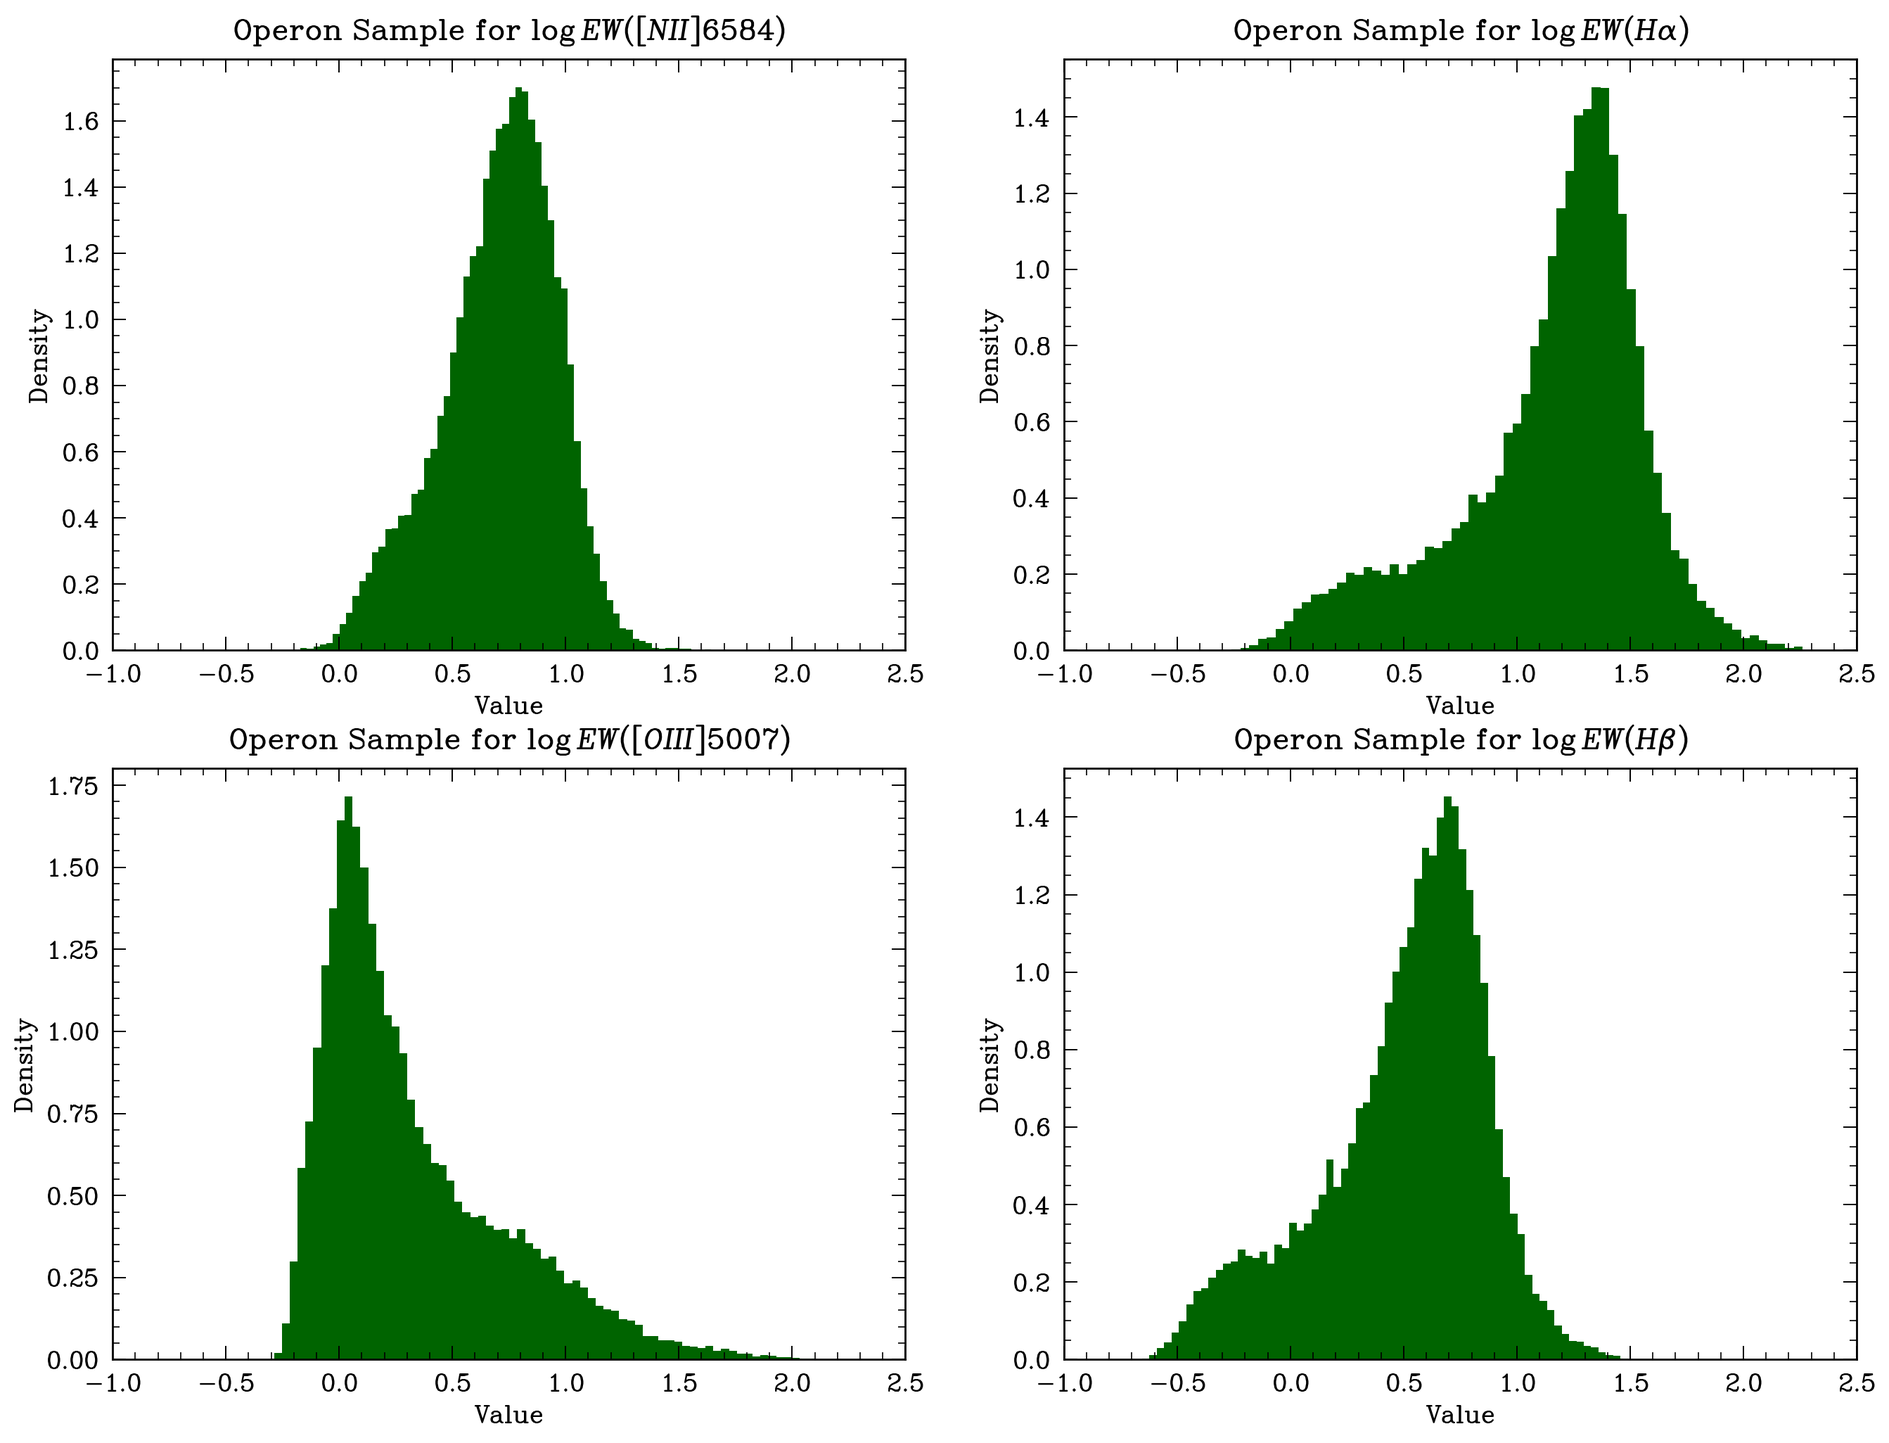
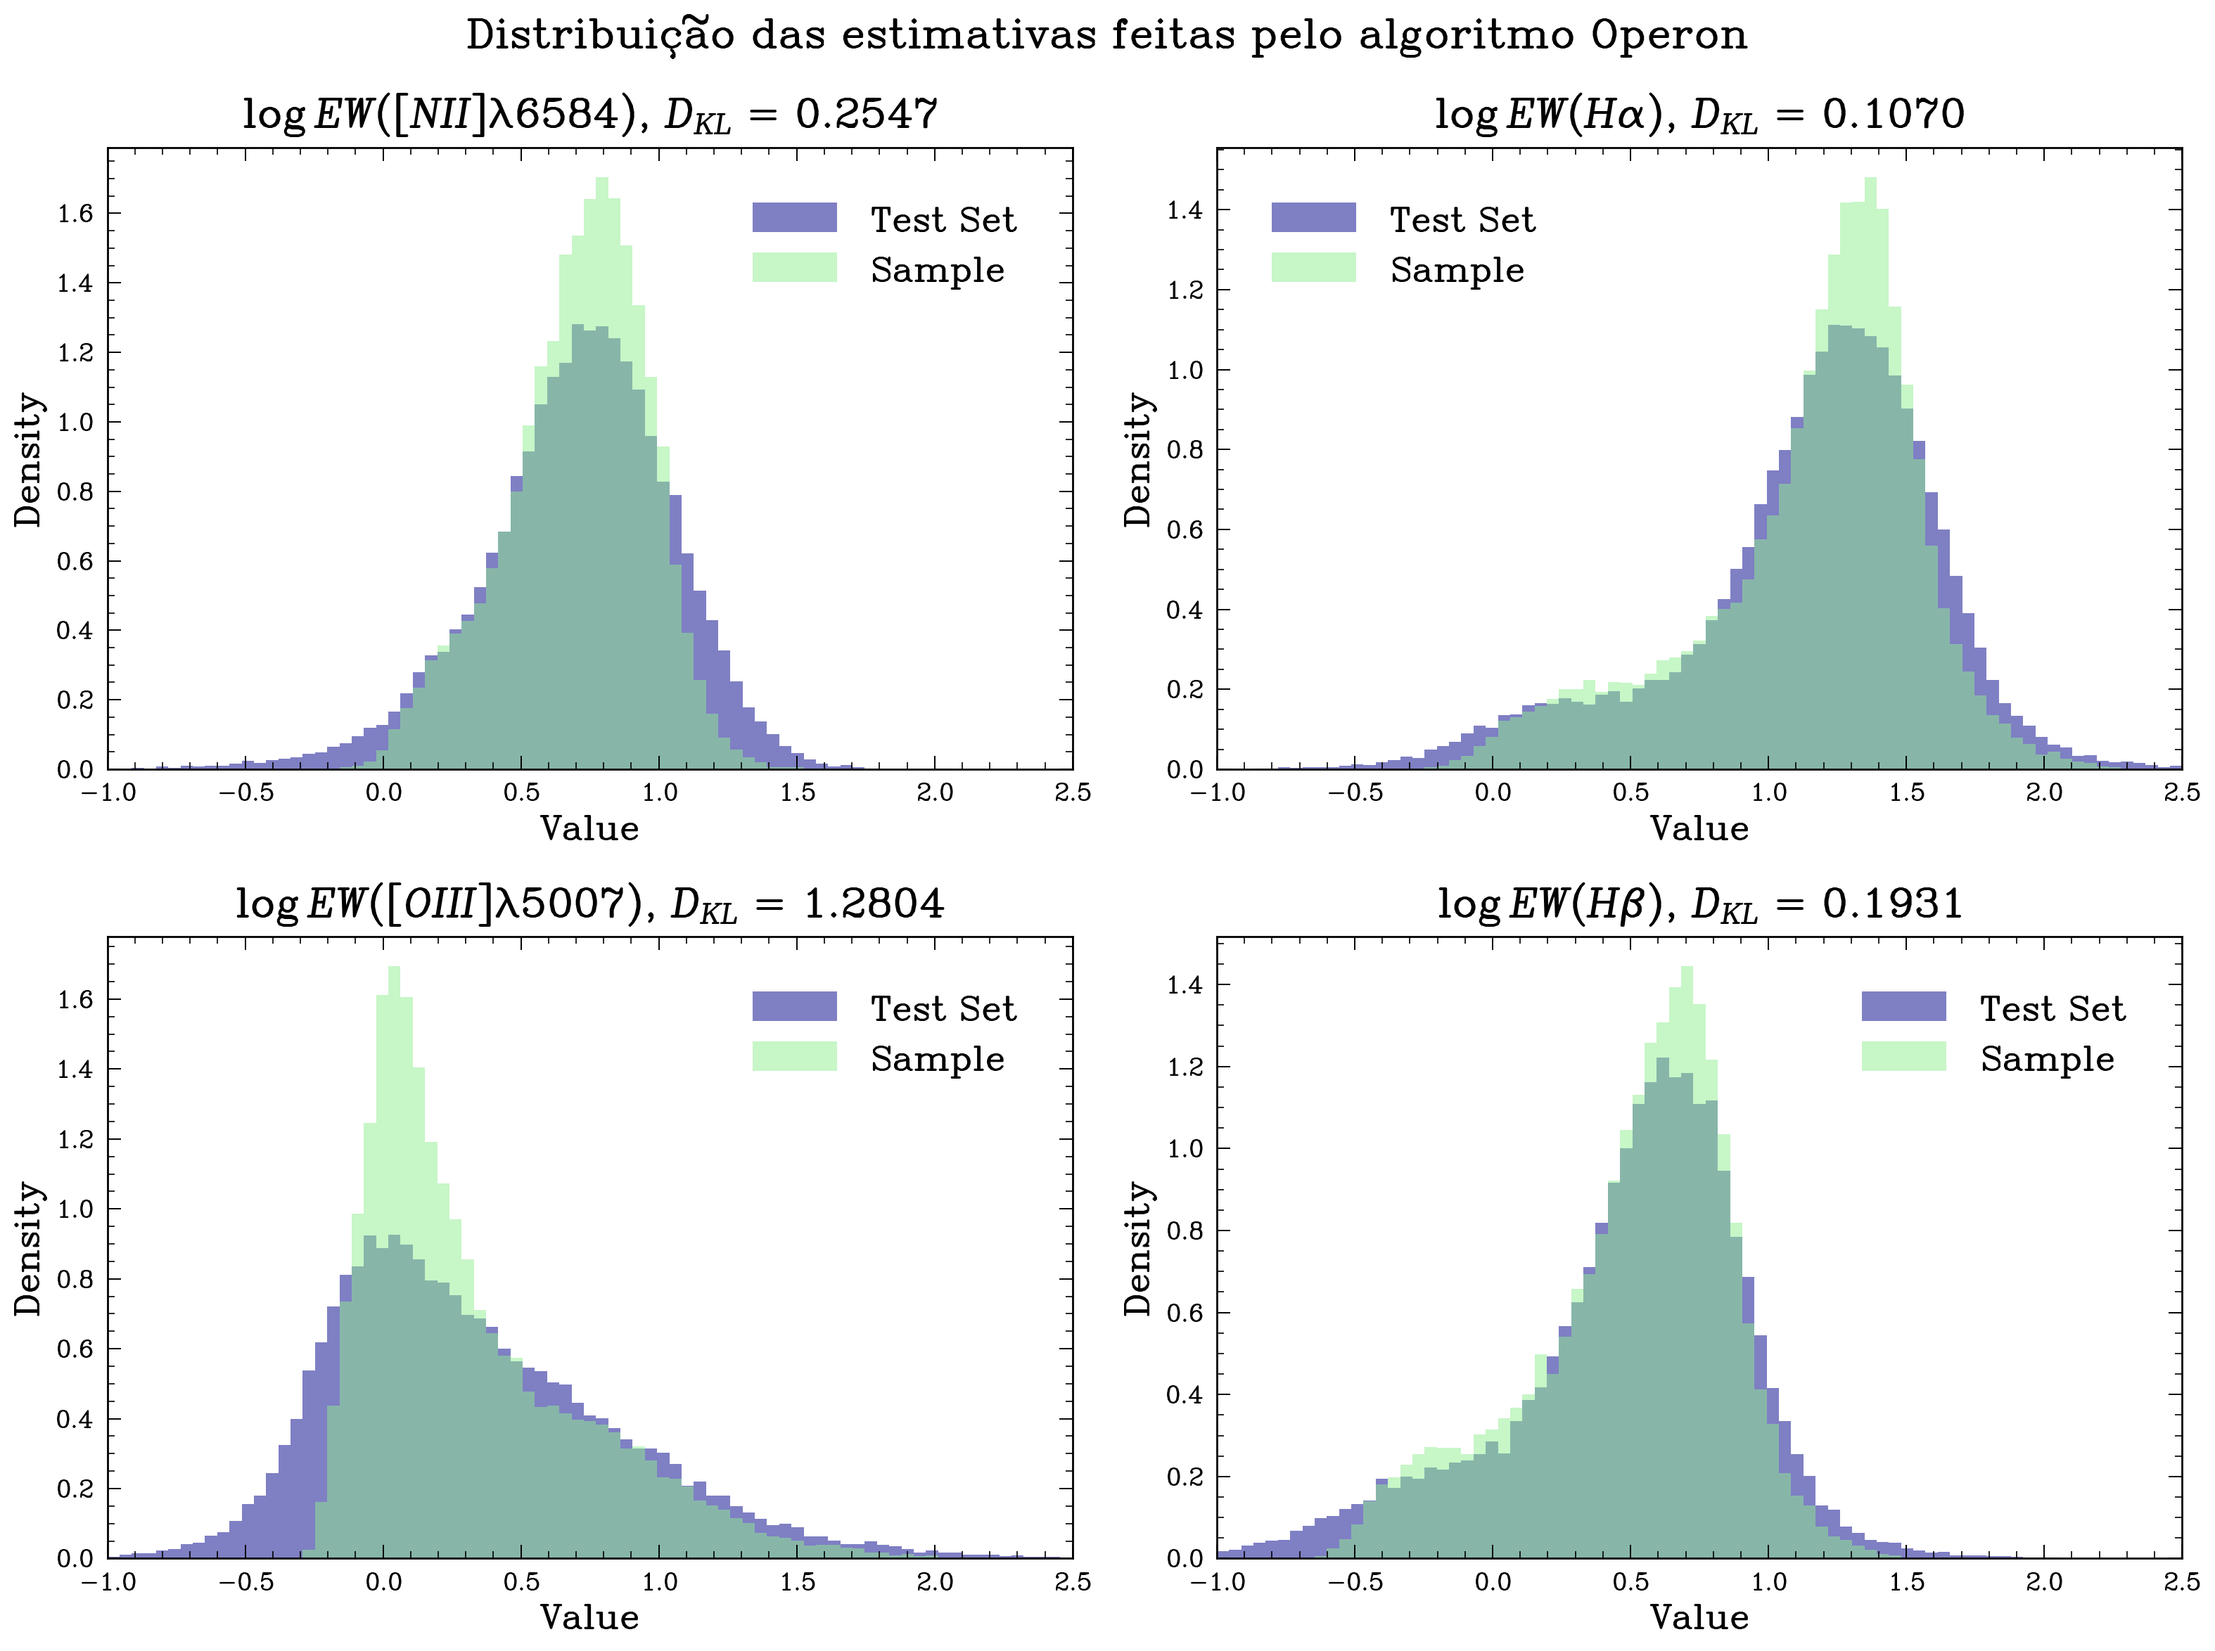
Histogramas das estimativas ML e das amostras normais
- Versão para a dissertação

diff --git a/A-CompareSR.py b/A-CompareSR.py
@@ -64,7 +64,7 @@ eggp_config = {
         "maxSize": 25,
         "nTournament": 5,
         "nonterminals": "add,sub,mul,div,square,exp,tanh",
-        "loss": "MSE"
+        "loss": "MSE",
     },
 }
 
@@ -407,44 +407,19 @@ def run_comparison(pysr=None, operon=False, rf=False, eggp=False):
 
 def histogramas_validation():
     # Histogramas do conjunto de validação
-    df = pd.read_csv("dados/ariel_limpo_log10.csv.gz", compression="gzip")
     features, targets = get_feature_target_names()
-    X = df[features].astype(float).values
-    y = df[targets].astype(float).values
-    _, _, _, y_test = train_test_split(X, y, test_size=0.3, random_state=4321)
-    _, ax = plt.subplots(2, 2, figsize=(16, 12))
-    p.histogram_v(
-        y_test[:, 0],
-        "Validation Set for " + p.unidades[targets[0]],
-        ax[0, 0],
-        cor="darkblue",
-        bins=80,
-        lim=(-1, 2.5),
-    )
-    p.histogram_v(
-        y_test[:, 1],
-        "Validation Set for " + p.unidades[targets[1]],
-        ax[0, 1],
-        cor="darkblue",
-        bins=80,
-        lim=(-1, 2.5),
-    )
-    p.histogram_v(
-        y_test[:, 2],
-        "Validation Set for " + p.unidades[targets[2]],
-        ax[1, 0],
-        cor="darkblue",
-        bins=80,
-        lim=(-1, 2.5),
-    )
-    p.histogram_v(
-        y_test[:, 3],
-        "Validation Set for " + p.unidades[targets[3]],
-        ax[1, 1],
-        cor="darkblue",
-        bins=80,
-        lim=(-1, 2.5),
-    )
+    df = pd.read_csv("dados/ariel_limpo_log10.csv.gz", compression="gzip")
+    _, y_test = train_test_split(df[features + targets], test_size=0.3, random_state=4321)
+    _, axs = plt.subplots(2, 2, figsize=(16, 12))
+    bins = np.linspace(-1, 2.5, 80)
+    for i, t in enumerate(targets):
+        ax = axs[i // 2][i % 2]
+        p.histogram_v(
+            y_test[t], "Validation Set for " + p.unidades[t],
+            ax, bins=bins, lim=(-1, 2.5),
+            cor="darkblue",
+        )
+    plt.tight_layout()
     plt.savefig(f"results/compare_sr/histogram_validation.png")
     plt.close()
 
@@ -470,46 +445,43 @@ def gerar_diagramas(algo):
         for target in targets:
             os.remove(f"results/compare_sr/amostras_{algo}_{target}.csv")
     except:
-        print(f"Ocorreu um erro ao juntar as amostras do {algo}!")
+        print(f"Lendo as amostras salvas do {algo}!")
         try:
             df_amostras = pd.read_csv(f"results/compare_sr/amostras_{algo}.csv")
         except:
             return
 
-    # Histogramas
-    _, ax = plt.subplots(2, 2, figsize=(16, 12))
-    p.histogram_v(
-        df_amostras[T.nii.value],
-        f"{algo} Sample for " + p.unidades[T.nii.value],
-        ax[0, 0],
-        cor="darkgreen",
-        bins=80,
-        lim=(-1, 2.5),
+    # Histogramas do conjunto de validação
+    df = pd.read_csv("dados/ariel_limpo_log10.csv.gz", compression="gzip")
+    features, targets = get_feature_target_names()
+    _, y_test = train_test_split(df[features + targets], test_size=0.3, random_state=4321)
+
+    # Calcula divergência KL entre amostras e o conjunto observado
+    bins = np.linspace(-1, 2.5, 80)
+    kl_values = [p.calcula_kl(y_test, df_amostras, t, bins) for t in targets]
+
+    # Gráficos
+    fig, axs = plt.subplots(2, 2, figsize=(16, 12))
+    plt.suptitle(
+        "Distribuição das estimativas feitas pelo algoritmo " + algo,
+        fontsize="xx-large",
     )
-    p.histogram_v(
-        df_amostras[T.ha.value],
-        f"{algo} Sample for " + p.unidades[T.ha.value],
-        ax[0, 1],
-        cor="darkgreen",
-        bins=80,
-        lim=(-1, 2.5),
-    )
-    p.histogram_v(
-        df_amostras[T.oiii.value],
-        f"{algo} Sample for " + p.unidades[T.oiii.value],
-        ax[1, 0],
-        cor="darkgreen",
-        bins=80,
-        lim=(-1, 2.5),
-    )
-    p.histogram_v(
-        df_amostras[T.hb.value],
-        f"{algo} Sample for " + p.unidades[T.hb.value],
-        ax[1, 1],
-        cor="darkgreen",
-        bins=80,
-        lim=(-1, 2.5),
-    )
+
+    for i, (t, kl) in enumerate(zip(targets, kl_values)):
+        ax = axs[i // 2][i % 2]
+        p.histogram_v(
+            y_test[t],
+            "", ax, bins=bins, lim=(-1, 2.5),
+            cor="darkblue", lbl="Test Set",
+        )
+        p.histogram_v(
+            df_amostras[t],
+            r"%s, $D_{KL}$ = %.4f" % (p.unidades[t], kl),
+            ax, bins=bins, lim=(-1, 2.5),
+            cor="lightgreen", lbl="Sample",
+        )
+
+    plt.tight_layout()
     plt.savefig(f"results/compare_sr/histogram_{algo}.png")
     plt.close()
 
@@ -569,4 +541,4 @@ def avaliar_amostras(algo):
 
 if __name__ == "__main__":
     # histogramas_validation()
-    run_comparison(pysr='train', operon=True, rf=True, eggp=False)
+    run_comparison(pysr="train", operon=True, rf=True, eggp=False)

diff --git a/metricas_plots.py b/metricas_plots.py
@@ -288,7 +288,7 @@ class PlotsMetricas(object):
     def mostrar_equacao(self, operon, col_x, formato="texto"):
         # print("Complexity: %d"%complexity)
         equation_str = operon.get_model_string(
-            operon.model_, names=[col_x], precision=6
+            operon.model_, names=col_x, precision=6
         )
         eq_latex = sp.latex(equation_str)
 
